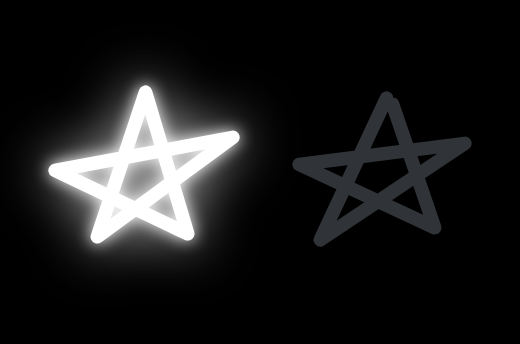
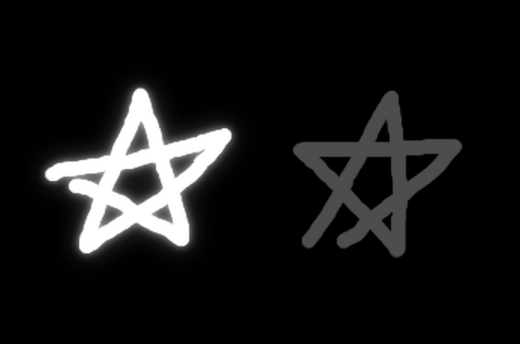
Buddy 1.1.1: use the original star drawings, softer glow (#170)

Changed region(s): [[0.0615, 0.2035, 0.4923, 0.7849], [0.5538, 0.2616, 0.9231, 0.7558]]

diff --git a/widgets/buddy/main.js b/widgets/buddy/main.js
@@ -23,10 +23,8 @@ async function save(p) {
   if (p) await umbra.store.set("pair", p); else await umbra.store.remove("pair");
 }
 
-// Hand-traced marker stars (viewBox 150): one self-crossing stroke each.
-const STAR1 = "M78 22 L46 118 L136 52 L18 74 L106 116 Z";
-const STAR2 = "M80 26 L36 120 L132 56 L22 70 L112 112 L84 30";
-const star = (cls, d, tip) => `<svg class="star ${cls}" viewBox="0 0 150 150" aria-label="${esc(tip)}"><title>${esc(tip)}</title><path d="${d}"/></svg>`;
+// The two stars are the user's own drawings (star1.png = you, star2.png = friend), white on transparent.
+const star = (cls, src, tip) => `<img class="star ${cls}" src="${src}" alt="${esc(tip)}" title="${esc(tip)}" draggable="false">`;
 
 let names = null;       // { you, friend } overrides saved from the menu; options are the fallback
 let pop = null;         // { type: "menu" | "join" | "names", x, y } while a popup is open
@@ -39,7 +37,7 @@ function render() {
   const meOn = !!pair && !offline && !unconfigured;
   const friendOn = !!pair && !!peer?.online;
   const waiting = pair?.code && peer && !peer.seen && Date.now() < pair.codeExp;
-  let html = star(meOn ? "on" : "", STAR1, you) + star(friendOn ? "on" : "", STAR2, friend);
+  let html = star(meOn ? "on" : "", "star1.png", you) + star(friendOn ? "on" : "", "star2.png", friend);
   if (unconfigured) toast = "Relay not configured";
   const note = error || toast || (waiting ? `${pair.code.slice(0, 4)}-${pair.code.slice(4)}` : "");
   if (note && !pop) html += `<div class="toast${waiting && !error && !toast ? " code" : ""}" data-no-drag>${esc(note)}</div>`;

diff --git a/widgets/buddy/style.css b/widgets/buddy/style.css
@@ -1,9 +1,9 @@
 html, body { margin: 0; height: 100%; background: #000; overflow: hidden; }
 .buddy { position: relative; box-sizing: border-box; height: 100%; padding: 14px; display: flex; align-items: center; justify-content: center; gap: 6px; }
 
-.star { flex: 1 1 0; min-width: 0; height: 100%; fill: none; stroke: var(--text-3); stroke-opacity: .45; stroke-width: 9; stroke-linecap: round; stroke-linejoin: round;
-  transition: stroke calc(300ms * var(--motion-scale, 1)), filter calc(300ms * var(--motion-scale, 1)); }
-.star.on { stroke: #fff; stroke-opacity: 1; filter: drop-shadow(0 0 4px #fff) drop-shadow(0 0 14px rgba(255, 255, 255, .75)); }
+.star { flex: 1 1 0; min-width: 0; height: 100%; object-fit: contain; opacity: .3; user-select: none;
+  transition: opacity calc(300ms * var(--motion-scale, 1)), filter calc(300ms * var(--motion-scale, 1)); }
+.star.on { opacity: 1; filter: drop-shadow(0 0 2px rgba(255, 255, 255, .6)) drop-shadow(0 0 6px rgba(255, 255, 255, .3)); }
 
 .toast { position: absolute; left: 0; right: 0; bottom: 6px; text-align: center; font-size: 12px; color: var(--down); pointer-events: none; }
 .toast.code { font-size: 15px; letter-spacing: .14em; color: var(--text-2); font-variant-numeric: tabular-nums; }
